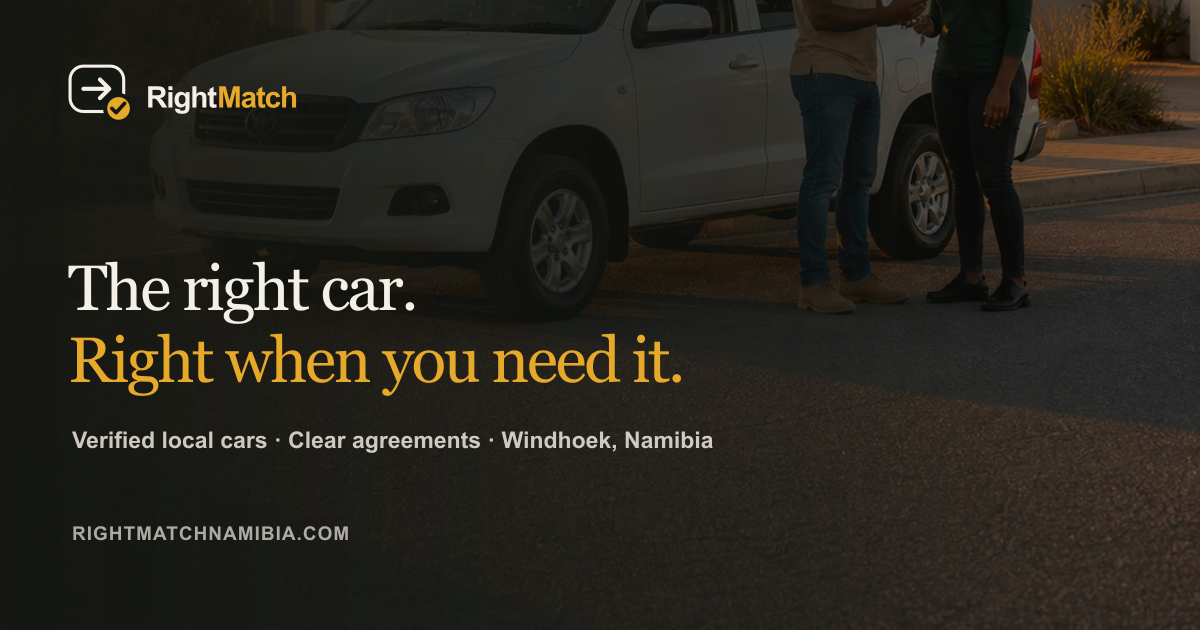
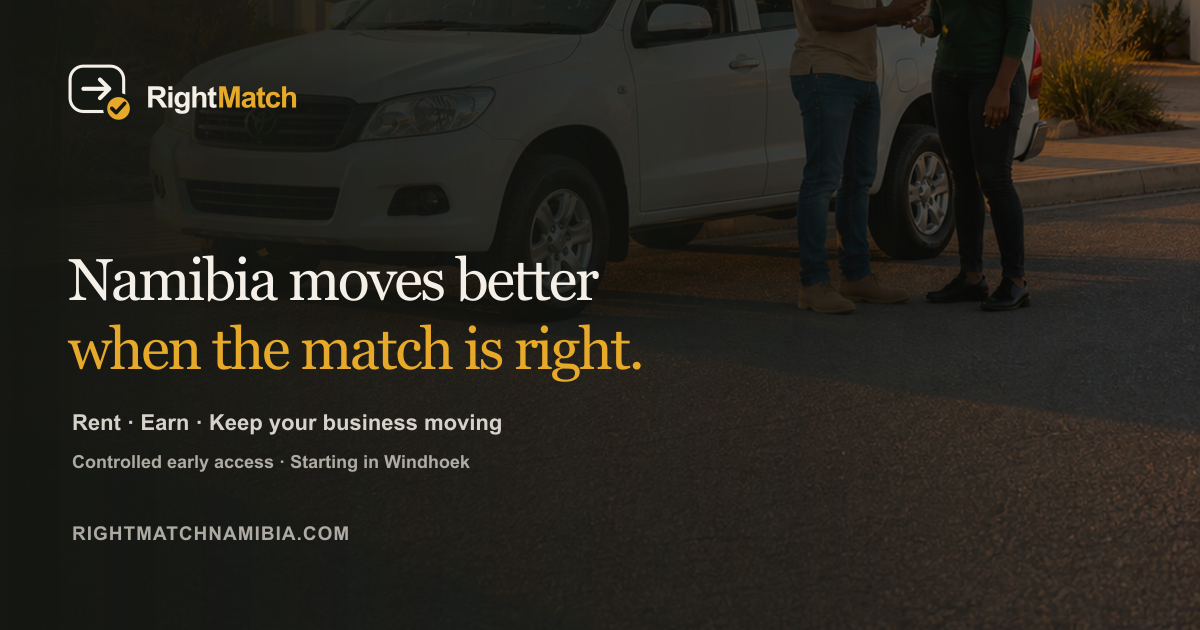
Refresh RightMatch overview

Changed region(s): [[0.0617, 0.3921, 0.555, 0.6333], [0.0617, 0.6635, 0.6167, 0.754]]

diff --git a/README.md b/README.md
@@ -27,7 +27,7 @@ OBSERVE → FRAME → DESIGN → BUILD → EVALUATE → HARDEN → SHIP
 - **Google Play launch lead** — Runnerz 1.1.0 (code 16) and UNIFIED 20.0 Signal Command (code 22) now have signed Android App Bundles accepted into Namibia-only Alpha release lanes; Runnerz is submitted for review, while UNIFIED's closed-testing track is active and its code-22 release is in review
 - **Published design science researcher** — IT handover continuity, with an open DOI-backed research record
 - **Builder within SolarSpin Technologies** — creating practical Namibian digital products with operational depth
-- **RightMatch launch lead** — a role-guided controlled pilot for owners, renters and trust operations, with public transactions deliberately gated behind final legal, insurance, registration and payment approvals
+- **RightMatch launch lead** — an expanded controlled pilot for vehicle owners, renters, small and growing businesses and mobility partners, with public transactions deliberately gated behind final Namibian legal, insurance, identity, payment and operating approvals
 - **Football archive builder** — creating KICKOFF NAM, a source-linked Namibian football intelligence archive spanning 103 player profiles, 28 club-directory entries and all 14 regional associations
 - **Community digital steward** — helping grassroots initiatives like Magic Boys Football Academy earn visibility through an approved identity without trading away young people’s privacy
 - **Local-enterprise storyteller** — translating businesses like Ontoko Foods into credible, distinctly Namibian digital experiences
@@ -157,9 +157,9 @@ UNIFIED 20.0 **Signal Command** turns the top-left brand mark into a working Com
   </tr>
   <tr>
     <td width="50%" valign="top">
-      <img src="assets/rightmatch.png" alt="RightMatch Namibia" width="100%">
+      <img src="assets/rightmatch.png" alt="RightMatch Namibia pathways for renters, owners and growing businesses" width="100%">
       <h3>RightMatch Namibia</h3>
-      <p>A launch-ready controlled pilot for Namibia with guided owner, renter and trust-operations journeys, verification, explicit agreements, sealed handover evidence and a durable deal trail. Public transactions remain gated behind final legal, insurance, registration and payment approvals.</p>
+      <p>An expanded controlled pilot for Namibia with dedicated renter, owner and small-business paths; a three-part product story; purpose-led vehicle discovery; a transparent owner-income calculator; verification; explicit agreements; sealed handover evidence; and a durable deal trail. Public bookings, payments and document submission remain gated pending final legal, insurance, identity and operational approvals.</p>
       <p><b>Role:</b> product strategy, design research, UX/UI, brand refinement, full-stack engineering, trust architecture, infrastructure and launch.</p>
       <p><a href="https://rightmatchnamibia.com"><b>Live product ↗</b></a> · <a href="https://github.com/freeman-ipumbu/rightmatch-namibia-case-study">Public case study ↗</a></p>
     </td>
